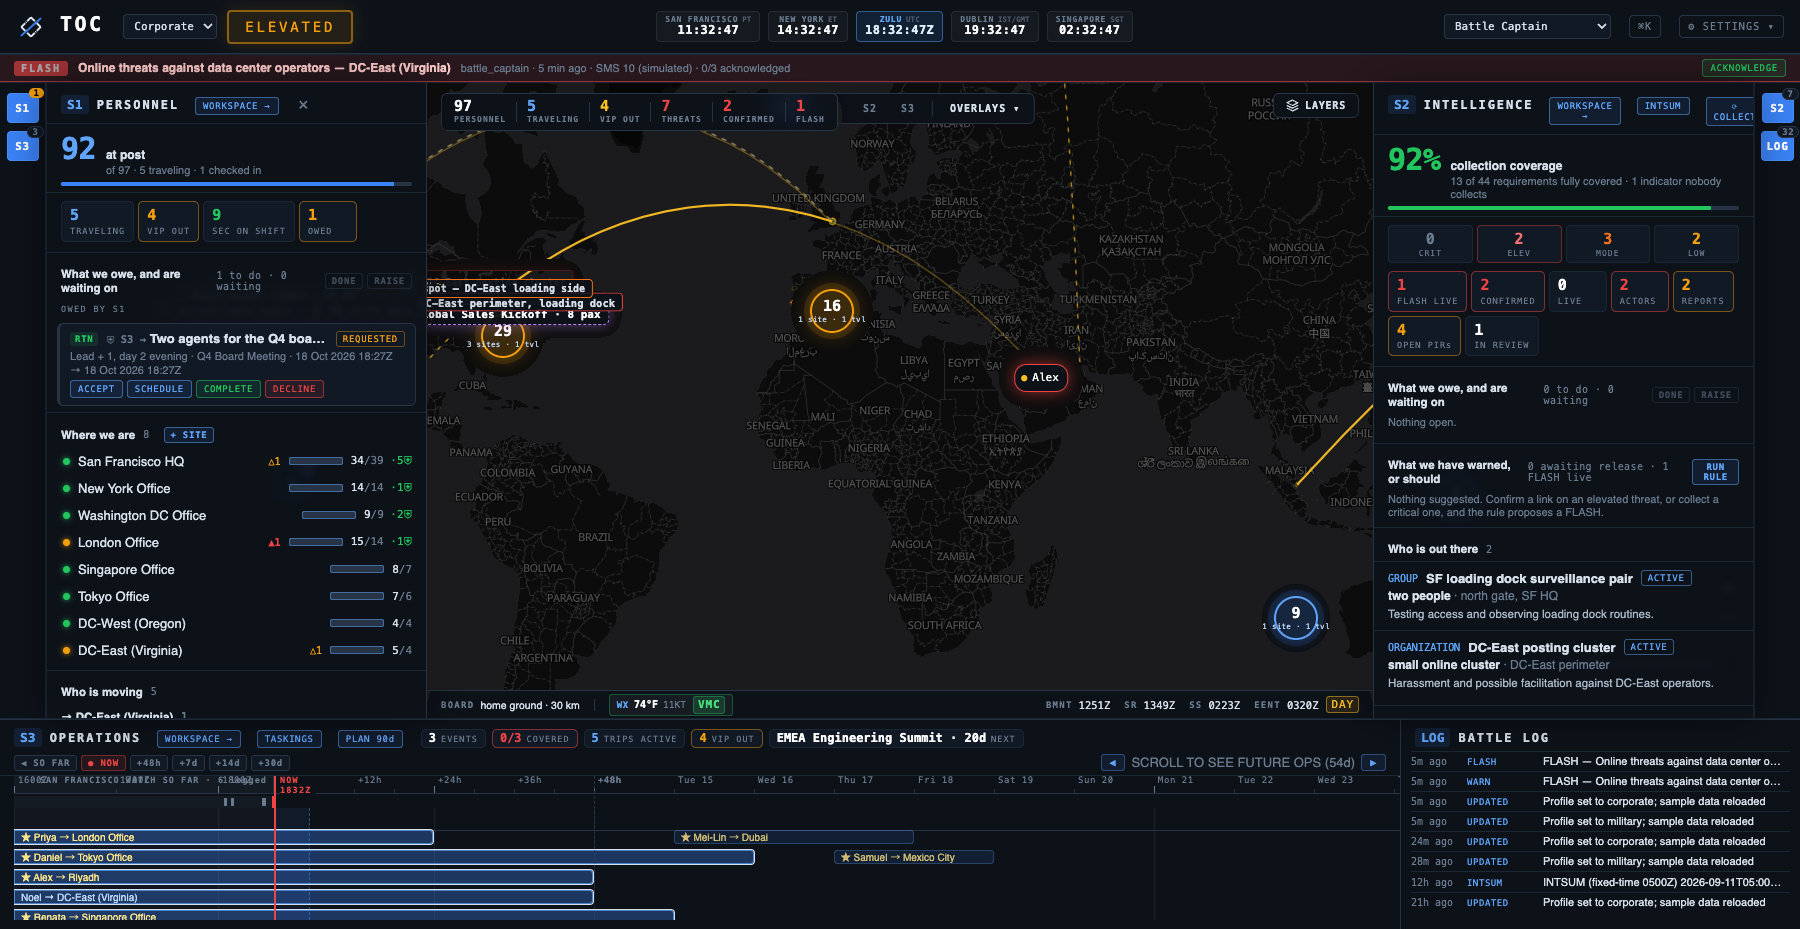
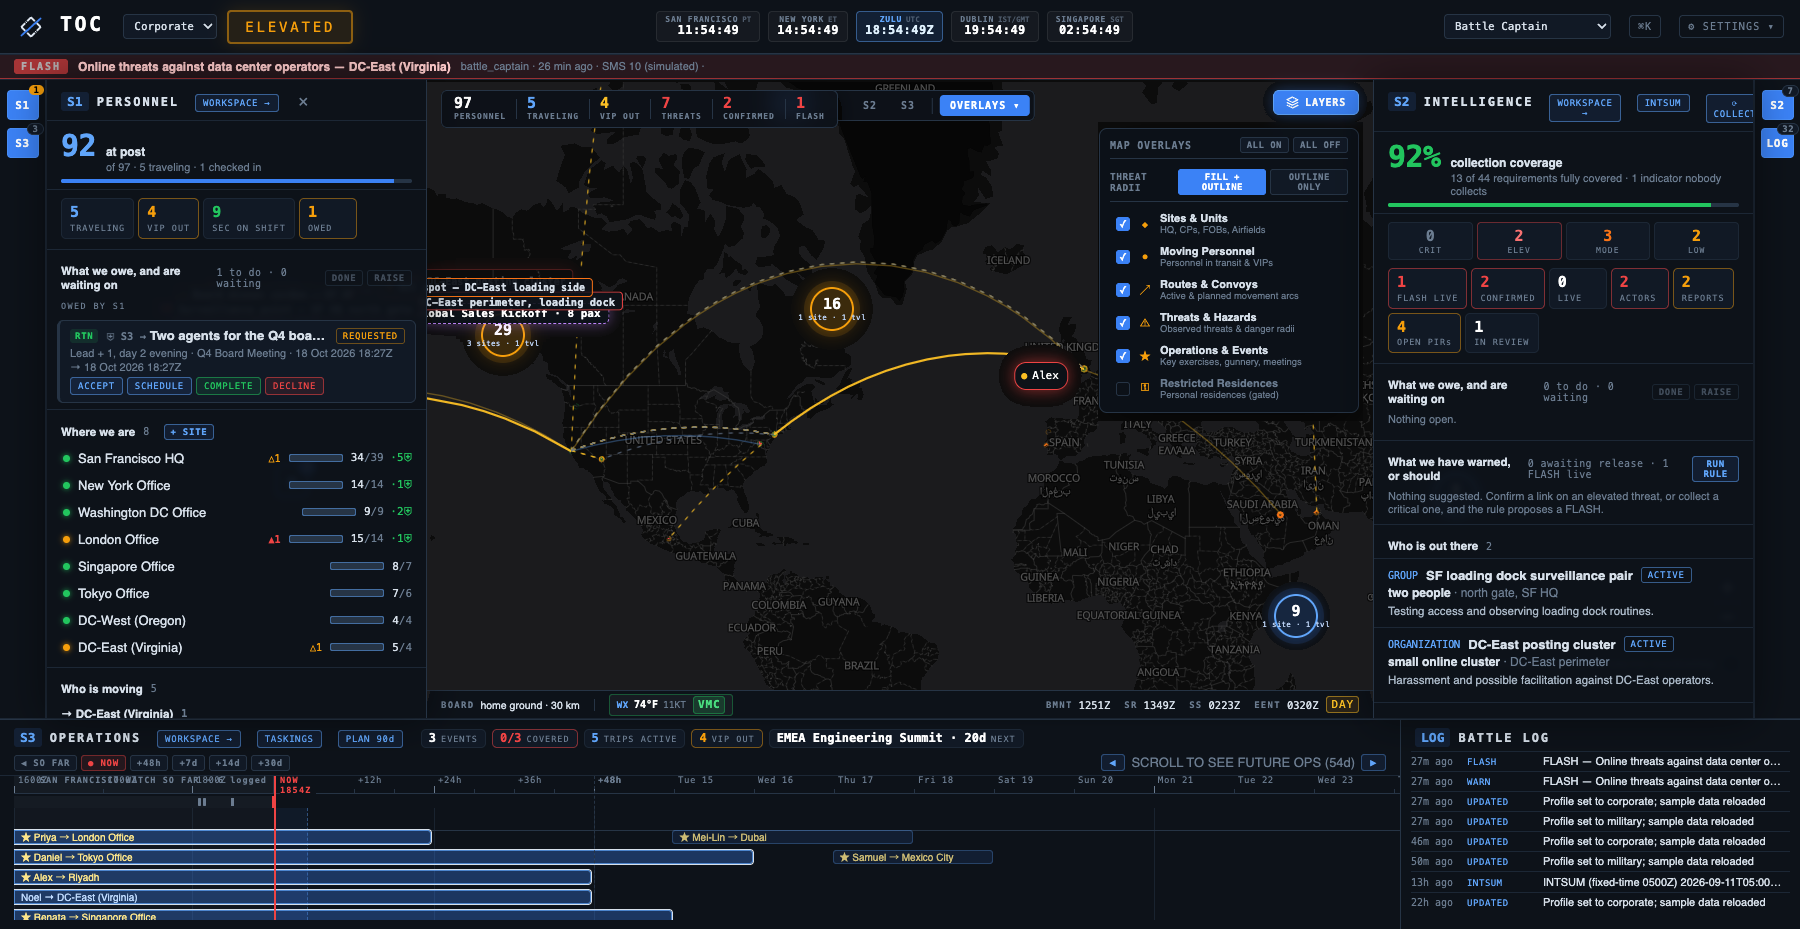
Show expanded LAYERS dropdown in landing page COP screenshot

diff --git a/landing/index.html b/landing/index.html
@@ -935,7 +935,7 @@
       <!-- Tab View 1: COPTOC -->
       <div class="tab-view active" id="view-coptoc">
         <div class="screenshot-hero" id="wall-screenshot-hero">
-          <img src="assets/wall.png?v=2" alt="COPTOC Common Operating Picture Full Wall" />
+          <img src="assets/wall.png?v=3" alt="COPTOC Common Operating Picture Full Wall" />
 
           <!-- Callout Pin 01: FLASH Warning -->
           <div class="map-hotspot" data-hotspot="1" style="top: 7.3%; left: 24%; --accent: #ef4444; --glow: rgba(239, 68, 68, 0.6);" onclick="selectHotspot(1)">
